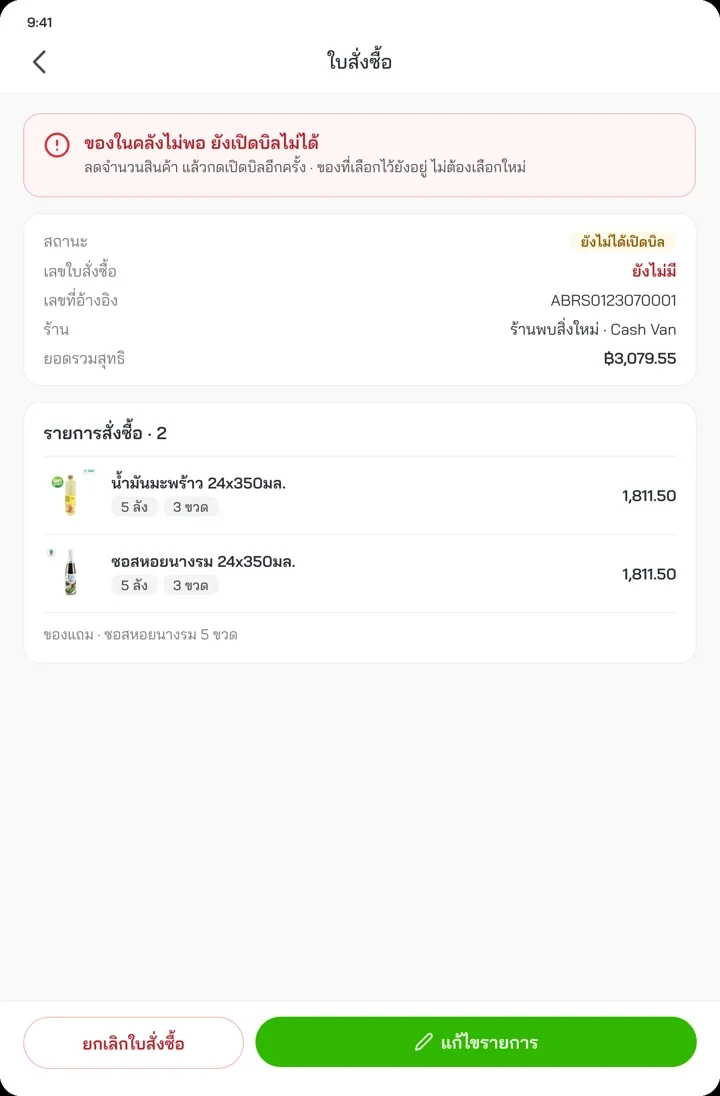
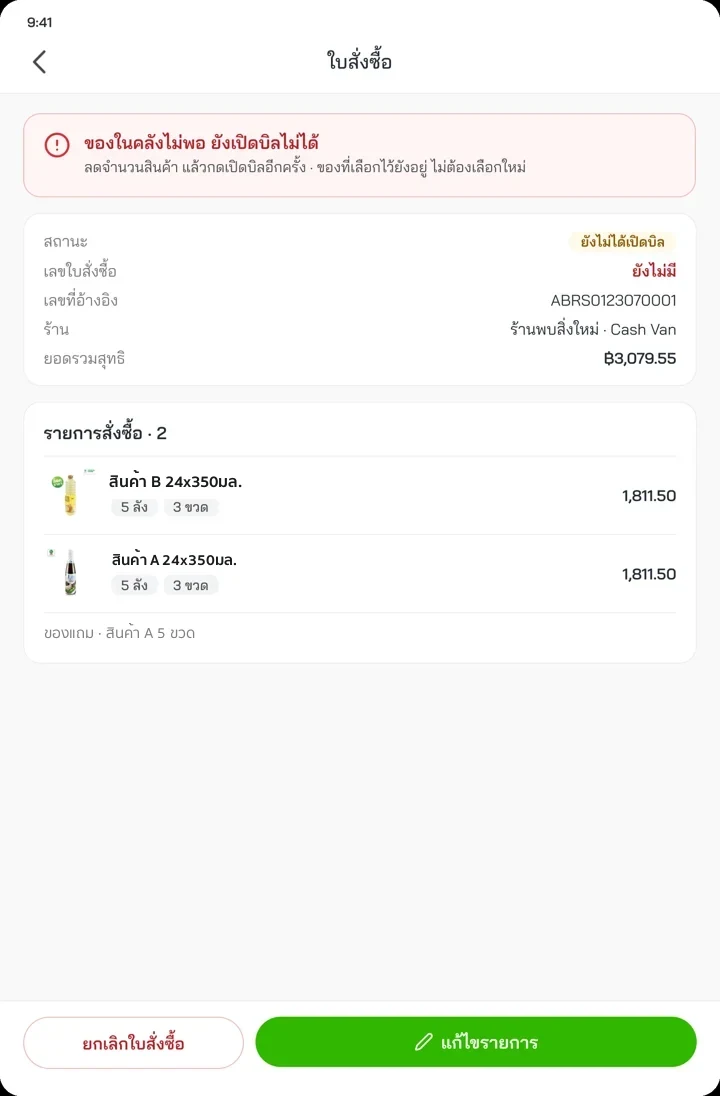
Deploy 54f6f83: neutral Field Sales SKUs, FMCG Distribution

Changed region(s): [[0.0611, 0.5584, 0.3361, 0.5894], [0.1528, 0.4964, 0.3972, 0.5274], [0.1528, 0.4343, 0.3972, 0.4653]]

diff --git a/field-sales-full.html b/field-sales-full.html
@@ -110,7 +110,7 @@
         <div><dt>Role</dt><dd>UX/UI Designer คนเดียวของโปรเจกต์ · ทำงานกับ PM และ BA</dd></div>
         <div><dt>Platform</dt><dd>Tablet app · Receipt printer · Web report</dd></div>
         <div><dt>Timeline</dt><dd>2023–2024 · 2 เฟส</dd></div>
-        <div><dt>Industry</dt><dd>F&amp;B Distribution</dd></div>
+        <div><dt>Industry</dt><dd>FMCG Distribution</dd></div>
         <div><dt>Status</dt><dd>ขึ้นระบบครบ 2 เฟส</dd></div>
       </dl>
     </div>
@@ -118,7 +118,7 @@
       <div class="hero-stage">
         <div class="device"><img src="assets/field-sales/screens/new-home-v8c.webp" alt="หน้า Home ของ Sales" width="1488" height="2266"></div>
         <div class="device device--lead"><img src="assets/field-sales/screens/new-rp-list.webp" alt="แผนงานวันนี้ แบบรายการ เรียงตามเส้นทาง" width="1236" height="1881"></div>
-        <div class="device"><img src="assets/field-sales/screens/new-order-filled.webp" alt="หน้าเปิดบิลขาย" width="1488" height="2266"></div>
+        <div class="device"><img src="assets/field-sales/screens/new-order-filled.png" alt="หน้าเปิดบิลขาย" width="1488" height="2266"></div>
       </div>
       <p class="fine">ภายใต้ NDA หน้าจอทั้งหมดวาดใหม่สำหรับ case study นี้ ชื่อลูกค้า ชื่อระบบ โลโก้ และข้อมูลจริง เปลี่ยนเป็นข้อมูลสมมติ</p>
     </div>
@@ -357,11 +357,11 @@
           <div class="mock" role="img" aria-label="จอเลือกสินค้า แสดงสต็อกคงเหลือ และห้ามใส่เกินของที่มี">
             <span style="font-weight:600">เลือกสินค้า</span>
             <div class="mock__item">
-              <span class="mock__name">ซอสหอยนางรม 24x350มล.</span>
+              <span class="mock__name">สินค้า A 24x350มล.</span>
               <div class="mock__line"><span class="mock__stock">มี 12 ลัง</span><span class="mock__qty"><span class="mock__btn">−</span><b>4</b><span class="mock__btn mock__btn--add">+</span></span></div>
             </div>
             <div class="mock__item is-low">
-              <span class="mock__name">น้ำมะพร้าว 24x350มล.</span>
+              <span class="mock__name">สินค้า B 24x350มล.</span>
               <div class="mock__line"><span class="mock__stock">มี 3 ลัง</span><span class="mock__qty"><span class="mock__btn">−</span><b>3</b><span class="mock__btn mock__btn--add">+</span></span></div>
               <span class="mock__hint">ใส่ครบที่มีแล้ว เพิ่มไม่ได้</span>
             </div>

diff --git a/i18n/field-sales-full.js b/i18n/field-sales-full.js
@@ -132,9 +132,9 @@ window.I18N = {
  "ซ่อนเมนูขายจนกว่าจะเช็กอิน ให้เหลือปุ่มเช็กอินปุ่มเดียว": "Hide sales menus until check-in, leaving a single check-in button",
  "หน้าร้านมีหลายเมนู ถ้าแสดงทุกเมนูที่ยังกดไม่ได้ Sales ต้องไล่หาว่าต้องกดอะไรก่อน": "The store page has many menus. Showing them all while disabled would make reps hunt for what to tap first.",
  "เลือกสินค้า": "เลือกสินค้า",
- "ซอสหอยนางรม 24x350มล.": "ซอสหอยนางรม 24x350มล.",
+ "สินค้า A 24x350มล.": "Product A 24x350ml",
  "มี 12 ลัง": "มี 12 ลัง",
- "น้ำมะพร้าว 24x350มล.": "น้ำมะพร้าว 24x350มล.",
+ "สินค้า B 24x350มล.": "Product B 24x350ml",
  "มี 3 ลัง": "มี 3 ลัง",
  "ใส่ครบที่มีแล้ว เพิ่มไม่ได้": "ใส่ครบที่มีแล้ว เพิ่มไม่ได้",
  "ใส่ลงบิล · 7 ลัง": "ใส่ลงบิล · 7 ลัง",
